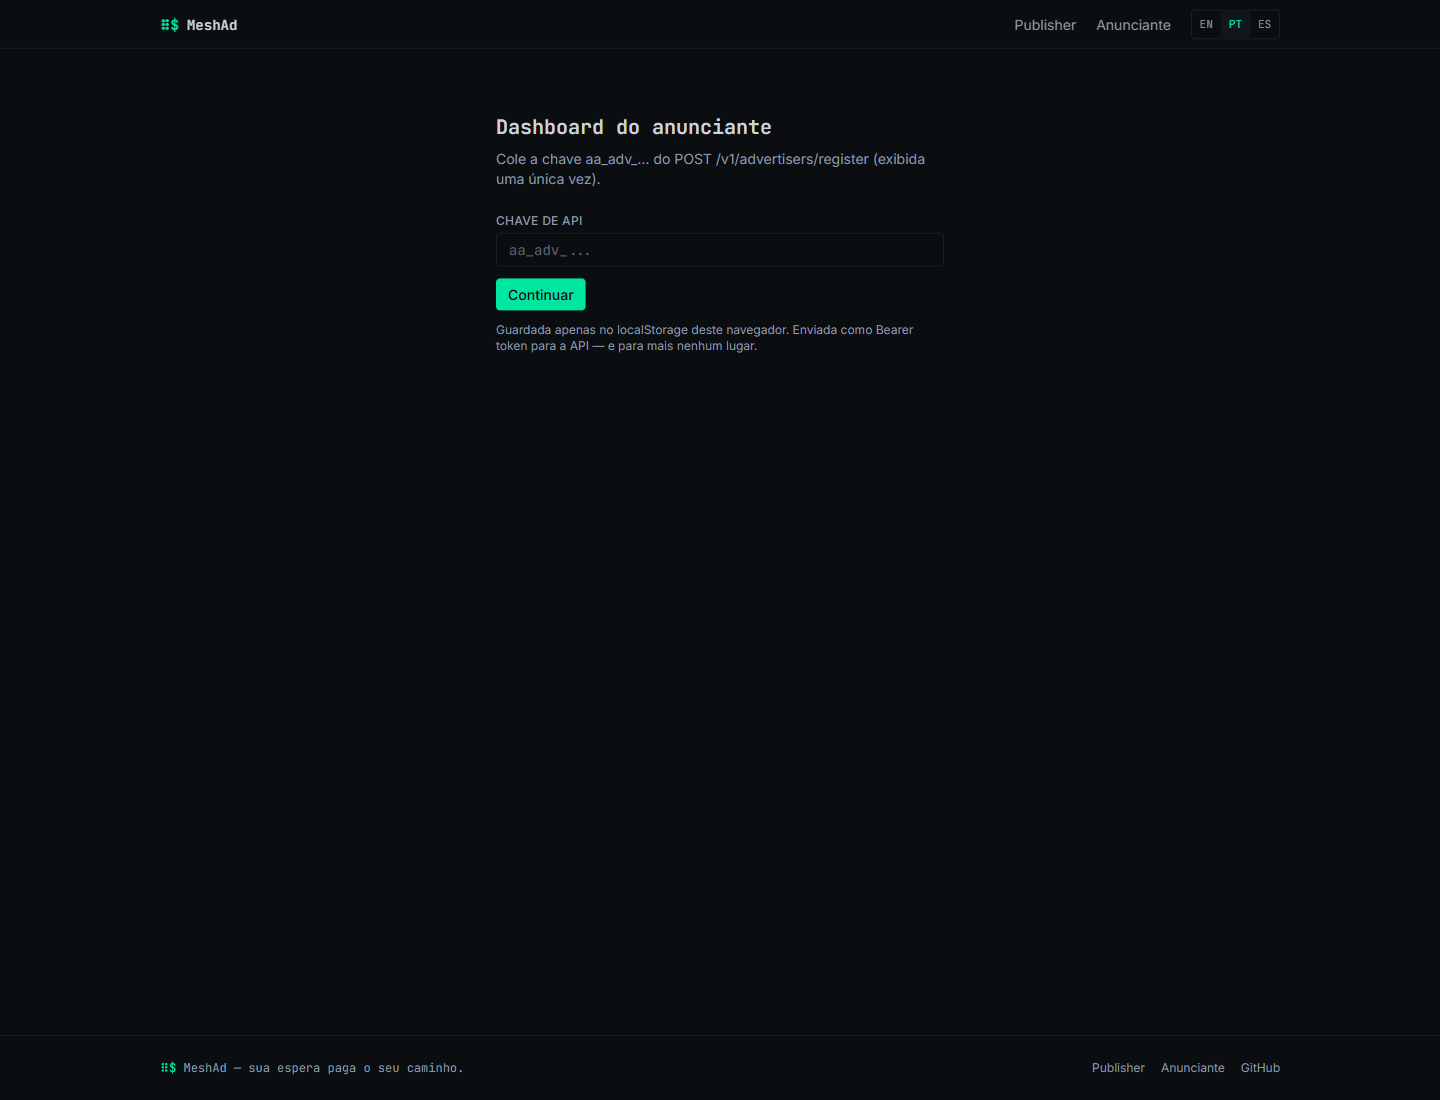
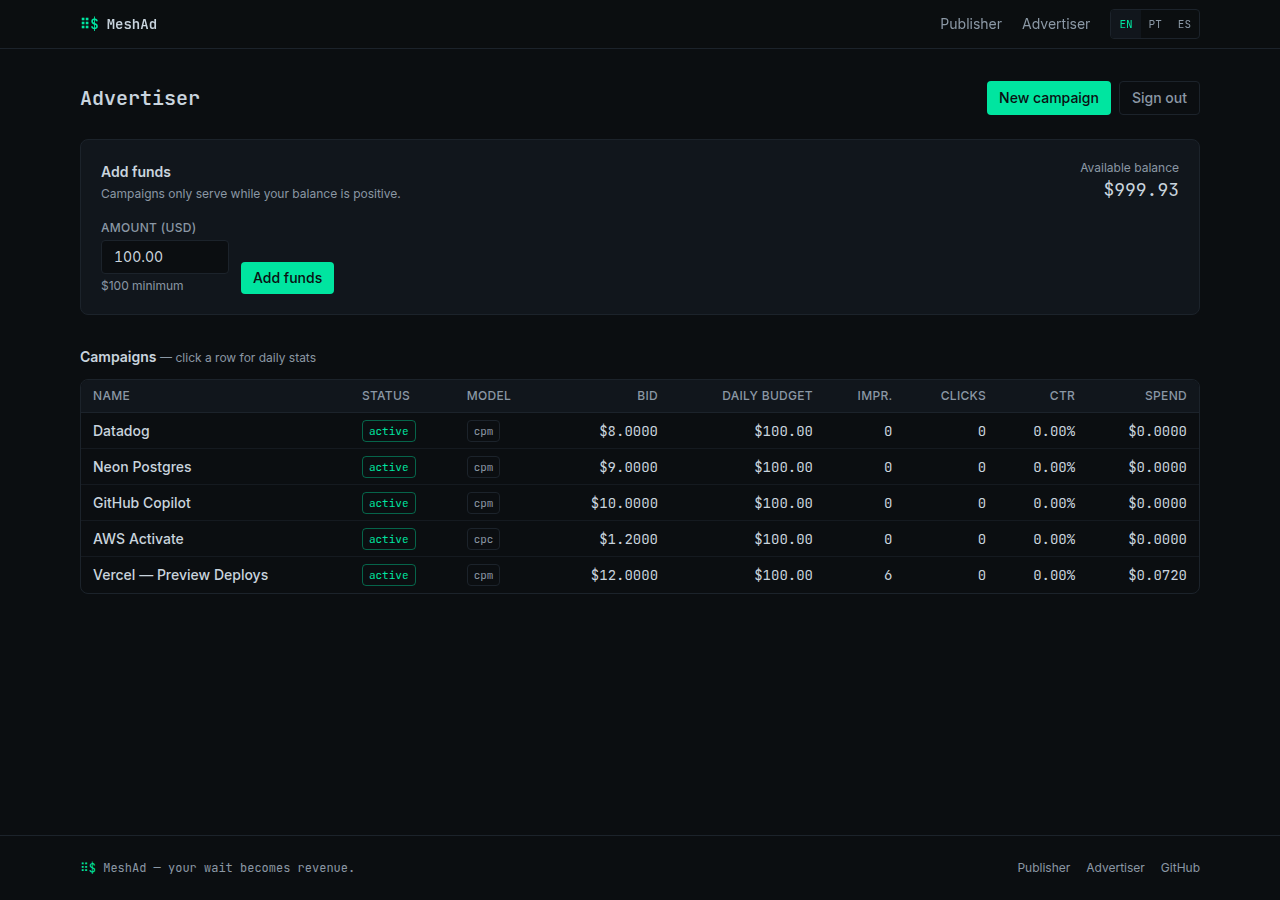
Rebuild the showcase page: fresh screenshots, on-brand design, English copy
The previous version had a violet/blue palette unrelated to the actual
product's visual identity, stale screenshots that no longer matched the
current dashboard at all, mixed Portuguese/English copy, and a
minified single-line stylesheet.

- Rewrote index.html against the real dashboard's dark/phosphor-green
  palette (ink/panel/edge/phosphor/amber/fog/mist), fully in English,
  with a readable multi-section stylesheet instead of one minified line.
- Replaced all three screenshots by actually running the current stack
  (API + dashboard) with realistic seeded data — 5 live campaigns with
  varied ad formats/colors/emoji, real impressions, matured earnings —
  and capturing them fresh, rather than reusing years-old captures.
- Added the same "how it works" (4 steps, both sides of the market) and
  "works with the CLI you already use" sections as the real landing
  page, for one consistent story across both properties.
- Documented the CLI install path and linked cli/README.md via GitHub's
  rendered view (this is a plain static site — a bare relative link
  would have served raw markdown).
- Added .nojekyll so GitHub Pages serves this as-is, since the repo
  also contains the mirrored CLI's own README/source.
- Fixed README.md to describe the repo's actual current contents
  (showcase + CLI mirror, not just screenshots).

diff --git a/index.html b/index.html
@@ -1,28 +1,268 @@
 <!doctype html>
-<html lang="pt-BR">
+<html lang="en">
 <head>
   <meta charset="utf-8">
   <meta name="viewport" content="width=device-width, initial-scale=1">
-  <title>MeshAd — privacy-first monetization for AI agents</title>
-  <meta name="description" content="MeshAd monetizes AI-agent idle time without collecting prompts, code or responses.">
+  <title>MeshAd — privacy-first monetization for AI coding agents</title>
+  <meta name="description" content="MeshAd turns an AI agent's idle thinking time into revenue for the developer running it — one signed, sponsored line in the terminal, gone the instant the answer arrives. Never reads prompts, code, or responses.">
   <style>
-    :root { color-scheme: dark; --bg:#030712; --panel:#0f172a; --line:#25304a; --text:#f8fafc; --muted:#9fb0cc; --accent:#36e4a6; --violet:#7068ff; }
-    *{box-sizing:border-box} body{margin:0;background:radial-gradient(circle at 70% 10%,#14164a 0,#030712 42%);font-family:Inter,ui-sans-serif,system-ui,-apple-system,Segoe UI,sans-serif;color:var(--text)}
-    a{color:inherit}.wrap{max-width:1180px;margin:auto;padding:32px 20px 80px}.nav{display:flex;justify-content:space-between;align-items:center;margin-bottom:72px}.brand{display:flex;gap:12px;align-items:center;font-weight:800;font-size:22px}.mark{display:grid;place-items:center;width:42px;height:42px;border-radius:14px;background:linear-gradient(135deg,var(--violet),#36e4a6);color:#020617}.btn{display:inline-flex;gap:10px;align-items:center;border:1px solid var(--line);border-radius:12px;padding:12px 16px;text-decoration:none;background:#151a2d}.hero{display:grid;grid-template-columns:1fr 1fr;gap:56px;align-items:center}.eyebrow{display:inline-block;border:1px solid #303b67;border-radius:999px;padding:8px 13px;color:#cfd8ff;background:#10152e}.hero h1{font-size:72px;line-height:.95;letter-spacing:-.06em;margin:24px 0}.hero p{color:var(--muted);font-size:20px;line-height:1.7}.terminal{background:#0b1023;border:1px solid var(--line);border-radius:24px;padding:24px;box-shadow:0 30px 80px #0008}.dots{display:flex;gap:8px}.dot{width:12px;height:12px;border-radius:50%;background:#f87171}.dot:nth-child(2){background:#fbbf24}.dot:nth-child(3){background:#34d399}.code{font-family:ui-monospace,SFMono-Regular,Consolas,monospace;color:#91a3c7;margin-top:28px;line-height:1.7}.ad{margin:22px 0;padding:22px;border-radius:18px;background:#20294e;border:1px solid #3b4a7a}.ad strong{font-size:22px;color:white}.ok{color:var(--accent)}.grid{display:grid;grid-template-columns:repeat(3,1fr);gap:20px;margin-top:70px}.card{background:#0d1326;border:1px solid var(--line);border-radius:22px;padding:28px}.card p{color:var(--muted);line-height:1.6}.shot{width:100%;border:1px solid var(--line);border-radius:20px;margin-top:24px}footer{border-top:1px solid var(--line);margin-top:80px;padding-top:28px;color:var(--muted)}@media(max-width:900px){.hero,.grid{grid-template-columns:1fr}.hero h1{font-size:48px}}
+    :root {
+      color-scheme: dark;
+      --ink: #0B0E11;
+      --panel: #11161C;
+      --edge: #1C232B;
+      --phosphor: #00E5A0;
+      --amber: #FFB454;
+      --fog: #8B98A5;
+      --mist: #C9D4DE;
+      --danger: #FF6B6B;
+    }
+    * { box-sizing: border-box; }
+    body {
+      margin: 0;
+      background: var(--ink);
+      color: var(--mist);
+      font-family: ui-sans-serif, system-ui, -apple-system, "Segoe UI", sans-serif;
+    }
+    code, .mono { font-family: ui-monospace, SFMono-Regular, Consolas, monospace; }
+    a { color: inherit; }
+    .wrap { max-width: 1100px; margin: 0 auto; padding: 0 20px; }
+
+    nav.top {
+      border-bottom: 1px solid var(--edge);
+      position: sticky; top: 0; background: rgba(11,14,17,.92); backdrop-filter: blur(6px);
+    }
+    nav.top .wrap { display: flex; align-items: center; justify-content: space-between; height: 56px; }
+    .brand { display: flex; align-items: center; gap: 8px; font-weight: 700; font-size: 15px; }
+    .brand .glyph { color: var(--phosphor); }
+    .navlinks { display: flex; gap: 8px; align-items: center; }
+
+    .btn {
+      display: inline-flex; align-items: center; gap: 8px;
+      border-radius: 6px; padding: 10px 16px; font-size: 14px; font-weight: 600;
+      text-decoration: none; border: 1px solid var(--edge);
+    }
+    .btn-primary { background: var(--phosphor); color: #04120c; border-color: var(--phosphor); }
+    .btn-ghost { background: transparent; color: var(--mist); }
+    .btn-ghost:hover { border-color: var(--fog); }
+
+    section { padding: 64px 0; }
+    section.tight { padding: 40px 0; }
+    .border-t { border-top: 1px solid var(--edge); }
+
+    h1 { font-size: 52px; line-height: 1.05; letter-spacing: -0.02em; margin: 0 0 20px; color: var(--mist); }
+    h1 .accent { color: var(--phosphor); }
+    h2.eyebrow { font-family: ui-monospace, SFMono-Regular, Consolas, monospace; font-size: 12px; text-transform: uppercase; letter-spacing: 0.12em; color: var(--phosphor); margin: 0 0 20px; }
+    .lede { font-size: 18px; line-height: 1.7; color: var(--fog); max-width: 640px; }
+
+    .hero { display: grid; grid-template-columns: 1.1fr 1fr; gap: 48px; align-items: center; }
+    .hero .actions { display: flex; flex-wrap: wrap; gap: 10px; margin-top: 28px; }
+    .stat-row { margin-top: 20px; display: flex; flex-wrap: wrap; gap: 6px 16px; font-size: 12px; color: var(--fog); font-family: ui-monospace, SFMono-Regular, Consolas, monospace; }
+
+    .terminal { background: var(--ink); border: 1px solid var(--edge); border-radius: 10px; overflow: hidden; box-shadow: 0 16px 48px rgba(0,0,0,.5); }
+    .terminal .bar { display: flex; align-items: center; gap: 8px; padding: 10px 14px; background: var(--panel); border-bottom: 1px solid var(--edge); }
+    .terminal .dot { width: 10px; height: 10px; border-radius: 50%; }
+    .terminal .dot.r { background: #FF5F57; } .terminal .dot.y { background: #FEBC2E; } .terminal .dot.g { background: #28C840; }
+    .terminal .title { margin-left: 6px; font-size: 12px; color: var(--fog); font-family: ui-monospace, SFMono-Regular, Consolas, monospace; }
+    .terminal .body { padding: 18px; font-family: ui-monospace, SFMono-Regular, Consolas, monospace; font-size: 13px; line-height: 1.7; }
+    .terminal .prompt-sign { color: var(--phosphor); }
+    .terminal .dim { color: var(--fog); }
+    .terminal .ad { margin-top: 14px; padding-top: 8px; border-top: 1px solid var(--edge); }
+    .terminal .ad .brand-line { color: var(--amber); font-weight: 600; }
+    .terminal .ad .sponsored { color: var(--amber); }
+    .terminal .ad .cta { text-decoration: underline; text-decoration-color: rgba(139,152,165,.4); }
+
+    .grid3 { display: grid; grid-template-columns: repeat(3, 1fr); gap: 16px; margin-top: 28px; }
+    .grid4 { display: grid; grid-template-columns: repeat(4, 1fr); gap: 16px; margin-top: 28px; }
+    .card { background: var(--panel); border: 1px solid var(--edge); border-radius: 10px; padding: 20px; }
+    .card h3 { margin: 8px 0 6px; font-size: 17px; color: var(--mist); }
+    .card p { margin: 0; color: var(--fog); font-size: 14px; line-height: 1.6; }
+    .card .step-n { font-family: ui-monospace, SFMono-Regular, Consolas, monospace; font-size: 12px; color: var(--fog); }
+    .card code.snippet { display: block; margin-top: 12px; background: var(--ink); border-radius: 6px; padding: 8px 10px; font-size: 12px; color: var(--phosphor); overflow-x: auto; white-space: nowrap; }
+
+    .badges { display: flex; flex-wrap: wrap; gap: 8px; margin-top: 20px; }
+    .badge { border: 1px solid var(--edge); background: var(--panel); border-radius: 999px; padding: 6px 14px; font-family: ui-monospace, SFMono-Regular, Consolas, monospace; font-size: 12px; color: var(--mist); }
+    .badge.faint { color: var(--fog); border-color: rgba(28,35,43,.6); }
+
+    .shots { display: grid; gap: 24px; margin-top: 28px; }
+    figure { margin: 0; }
+    figure img { width: 100%; display: block; border: 1px solid var(--edge); border-radius: 10px; }
+    figcaption { margin-top: 8px; font-size: 13px; color: var(--fog); text-align: center; }
+
+    .install-box { background: var(--panel); border: 1px solid var(--edge); border-radius: 10px; padding: 24px; margin-top: 24px; }
+    .install-box code.cmd { display: block; background: var(--ink); border-radius: 6px; padding: 12px 14px; font-size: 14px; color: var(--phosphor); margin: 12px 0; overflow-x: auto; }
+
+    footer { border-top: 1px solid var(--edge); padding: 28px 0; }
+    footer .wrap { display: flex; flex-wrap: wrap; align-items: center; justify-content: space-between; gap: 12px; font-size: 13px; color: var(--fog); }
+    footer nav { display: flex; gap: 18px; }
+    footer a:hover { color: var(--mist); }
+
+    @media (max-width: 860px) {
+      .hero { grid-template-columns: 1fr; }
+      .grid3, .grid4 { grid-template-columns: 1fr 1fr; }
+      h1 { font-size: 38px; }
+    }
   </style>
 </head>
 <body>
-  <main class="wrap">
-    <nav class="nav"><div class="brand"><span class="mark">⚡</span> MeshAd</div><a class="btn" href="https://github.com/DiegoLial/meshad">Star on GitHub</a></nav>
+  <nav class="top">
+    <div class="wrap">
+      <a class="brand" href="#top"><span class="glyph">⠿$</span> MeshAd</a>
+      <div class="navlinks">
+        <a class="btn btn-ghost" href="https://meshad.io">Live site</a>
+        <a class="btn btn-primary" href="https://github.com/DiegoLial/meshad">Star on GitHub</a>
+      </div>
+    </div>
+  </nav>
+
+  <main class="wrap" id="top">
     <section class="hero">
-      <div><span class="eyebrow">GitHub-first launch • privacy-first AI monetization</span><h1>A ad network para agentes de IA.</h1><p>MeshAd transforma janelas reais de processamento em inventário premium sem ler prompts, código, respostas ou contexto do projeto.</p><p>O dev recebe por ledger: ganhos pendentes, antifraude, saldo disponível e saque aprovado pelo dono no admin.</p><p><a class="btn" href="https://meshad.io">Abrir meshad.io →</a></p></div>
-      <div class="terminal"><div class="dots"><span class="dot"></span><span class="dot"></span><span class="dot"></span></div><div class="code">$ meshad run "claude implement billing events"<br><span class="ok">✓ Privacy guard active</span><div class="ad"><small>Sponsored while your agent thinks</small><br><strong>GPU credits for agent builders</strong><br><br>Usage-based compute for autonomous coding agents.</div>↳ no prompt data captured<br><span class="ok">✓ response ready — campaign dismissed</span></div></div>
+      <div>
+        <h2 class="eyebrow">privacy-first monetization for AI agents</h2>
+        <h1>Your wait becomes <span class="accent">revenue</span>.</h1>
+        <p class="lede">
+          MeshAd turns the seconds your AI coding agent spends thinking into income
+          for the developer running it — one signed, clearly-labeled sponsored line,
+          gone the instant the answer arrives. It never reads your prompts, your code,
+          or your files.
+        </p>
+        <div class="actions">
+          <a class="btn btn-primary" href="https://meshad.io/publisher">Start earning →</a>
+          <a class="btn btn-ghost" href="https://meshad.io/advertiser">Reach developers mid-flow →</a>
+        </div>
+        <div class="stat-row">
+          <span>70/30 revenue share</span>
+          <span>·</span>
+          <span>Ed25519-signed creatives</span>
+          <span>·</span>
+          <span>second-price auction, no minimums</span>
+        </div>
+      </div>
+      <div class="terminal">
+        <div class="bar">
+          <span class="dot r"></span><span class="dot y"></span><span class="dot g"></span>
+          <span class="title">~/project — claude</span>
+        </div>
+        <div class="body">
+          <div><span class="prompt-sign">$</span> claude "refactor the auth module"</div>
+          <div class="dim">⠋ Thinking... (6s)</div>
+          <div class="ad">
+            <div class="brand-line">▲ Neon — Postgres with branching. 10GB free</div>
+            <div><span class="cta">mesh.io/neon</span> · <span class="sponsored">sponsored</span></div>
+          </div>
+        </div>
+      </div>
     </section>
-    <section class="grid"><div class="card"><h3>0 prompts collected</h3><p>Only timing metadata leaves the machine.</p></div><div class="card"><h3>Terminal-native</h3><p>Clear, labelled sponsorships during idle time.</p></div><div class="card"><h3>Publisher revenue</h3><p>Developers share in the value they create.</p></div></section>
-    <img class="shot" src="assets/meshad-landing.png" alt="MeshAd landing screenshot">
-    <img class="shot" src="assets/meshad-publisher.png" alt="MeshAd publisher dashboard screenshot">
-    <img class="shot" src="assets/meshad-advertiser.png" alt="MeshAd advertiser dashboard screenshot">
-    <footer>© MeshAd. Never spy. Never interrupt. Never degrade.</footer>
+
+    <section class="border-t tight">
+      <h2 class="eyebrow" style="text-align:center">how it works</h2>
+      <div class="grid4">
+        <div class="card">
+          <p class="step-n">01</p>
+          <h3>Install</h3>
+          <p>One command, open-source client, explicit opt-in. Pause or uninstall any time.</p>
+          <code class="snippet">curl -fsSL https://meshad.io/install | sh</code>
+        </div>
+        <div class="card">
+          <p class="step-n">02</p>
+          <h3>Advertisers bid</h3>
+          <p>Any company self-serves a campaign into a second-price auction — no minimums, no salesperson.</p>
+          <code class="snippet">POST /v1/campaigns</code>
+        </div>
+        <div class="card">
+          <p class="step-n">03</p>
+          <h3>Wait</h3>
+          <p>When the agent thinks for 8+ seconds, one sponsored line/block/panel renders. Cleared in under 100ms.</p>
+          <code class="snippet">⠋ Thinking...</code>
+        </div>
+        <div class="card">
+          <p class="step-n">04</p>
+          <h3>Everyone earns</h3>
+          <p>Every viewable impression is priced by the auction, split 70/30, posted to a double-entry ledger.</p>
+          <code class="snippet">$ meshad earnings</code>
+        </div>
+      </div>
+    </section>
+
+    <section class="border-t tight">
+      <h2 class="eyebrow" style="text-align:center">works with the CLI you already use</h2>
+      <div class="badges" style="justify-content:center">
+        <span class="badge">Claude Code</span>
+        <span class="badge">Gemini CLI</span>
+        <span class="badge">Codex</span>
+        <span class="badge">Aider</span>
+        <span class="badge">OpenCode</span>
+        <span class="badge">Cursor</span>
+        <span class="badge">Windsurf</span>
+        <span class="badge">Kiro</span>
+        <span class="badge">Continue</span>
+        <span class="badge faint">+ any other CLI</span>
+      </div>
+    </section>
+
+    <section class="border-t">
+      <h2 class="eyebrow">privacy is the product</h2>
+      <p class="lede">
+        The client can only emit five signals — the schema is public, versioned, and
+        enforced on both ends. A batch with any extra field is rejected in full.
+      </p>
+      <div class="grid3">
+        <div class="card">
+          <h3>0 prompts, ever</h3>
+          <p>Only timing metadata leaves the machine: when the agent starts/stops thinking, a rotatable anonymous ID, and the terminal type.</p>
+        </div>
+        <div class="card">
+          <h3>Terminal-native</h3>
+          <p>One clearly-labeled sponsored line, block, or bordered panel — colors and emoji, never raw escape codes from an advertiser.</p>
+        </div>
+        <div class="card">
+          <h3>Publisher revenue</h3>
+          <p>70% to the developer by default, in a double-entry ledger, settled via Stripe Connect once you're onboarded.</p>
+        </div>
+      </div>
+    </section>
+
+    <section class="border-t">
+      <h2 class="eyebrow">see it running</h2>
+      <div class="shots">
+        <figure>
+          <img src="assets/meshad-landing.png" alt="MeshAd landing page, showing the hero, terminal demo, and supported-CLI list">
+          <figcaption>The live product at meshad.io</figcaption>
+        </figure>
+        <figure>
+          <img src="assets/meshad-publisher.png" alt="MeshAd publisher dashboard, showing earnings, a chart, preferences, Stripe Connect, and CLI key setup">
+          <figcaption>Publisher dashboard — earnings, payout setup, CLI key</figcaption>
+        </figure>
+        <figure>
+          <img src="assets/meshad-advertiser.png" alt="MeshAd advertiser dashboard, showing account balance and a list of active campaigns">
+          <figcaption>Advertiser dashboard — balance and live campaigns</figcaption>
+        </figure>
+      </div>
+    </section>
+
+    <section class="border-t">
+      <h2 class="eyebrow">install the CLI</h2>
+      <div class="install-box">
+        <p class="lede" style="margin-bottom:0">One command. The source lives in <code>cli/</code> in this repo — mirrored here so it can be installed without access to the private core platform.</p>
+        <code class="cmd">curl -fsSL https://meshad.io/install | sh</code>
+        <p class="lede" style="margin-bottom:0">or manually:</p>
+        <code class="cmd">git clone https://github.com/DiegoLial/meshad.git &amp;&amp; npm install -g ./meshad/cli</code>
+        <a class="btn btn-ghost" href="https://github.com/DiegoLial/meshad/blob/main/cli/README.md">Read the CLI docs →</a>
+      </div>
+    </section>
   </main>
+
+  <footer>
+    <div class="wrap">
+      <span class="mono"><span style="color:var(--phosphor)">⠿$</span> MeshAd — your wait becomes revenue.</span>
+      <nav>
+        <a href="https://meshad.io">Live site</a>
+        <a href="https://meshad.io/publisher">Publisher</a>
+        <a href="https://meshad.io/advertiser">Advertiser</a>
+        <a href="https://github.com/DiegoLial/meshad/blob/main/cli/README.md">CLI</a>
+        <a href="https://github.com/DiegoLial/meshad">GitHub</a>
+      </nav>
+    </div>
+  </footer>
 </body>
 </html>

diff --git a/README.md b/README.md
@@ -45,6 +45,18 @@ AI agents spend real time thinking, planning, indexing and executing. MeshAd tur
 
 ![MeshAd advertiser dashboard](assets/meshad-advertiser.png)
 
+## Install the CLI
+
+```bash
+curl -fsSL https://meshad.io/install | sh
+meshad init
+```
+
+The CLI's source lives in [`cli/`](cli) — mirrored here from the private core
+repository so it can be installed standalone, without access to the core
+platform's source. See [`cli/README.md`](cli/README.md) for the full command
+reference and the privacy contract in detail.
+
 ## How it works
 
 ```txt
@@ -84,9 +96,12 @@ MeshAd API ── campaign auction ── signed ad pack
 
 ## Repository model
 
-This public repository is the launch/landing hub: screenshots, positioning, install notes and public-facing documentation.
+This public repository is the launch/landing hub: screenshots, positioning,
+public-facing documentation, and a mirror of the CLI's source (`cli/`) so it
+can be installed without access to the private core.
 
-The production core remains private while the public surface is prepared for launch.
+The production core (API, auction, fraud detection, ledger, dashboard)
+remains private.
 
 ## Domain
 